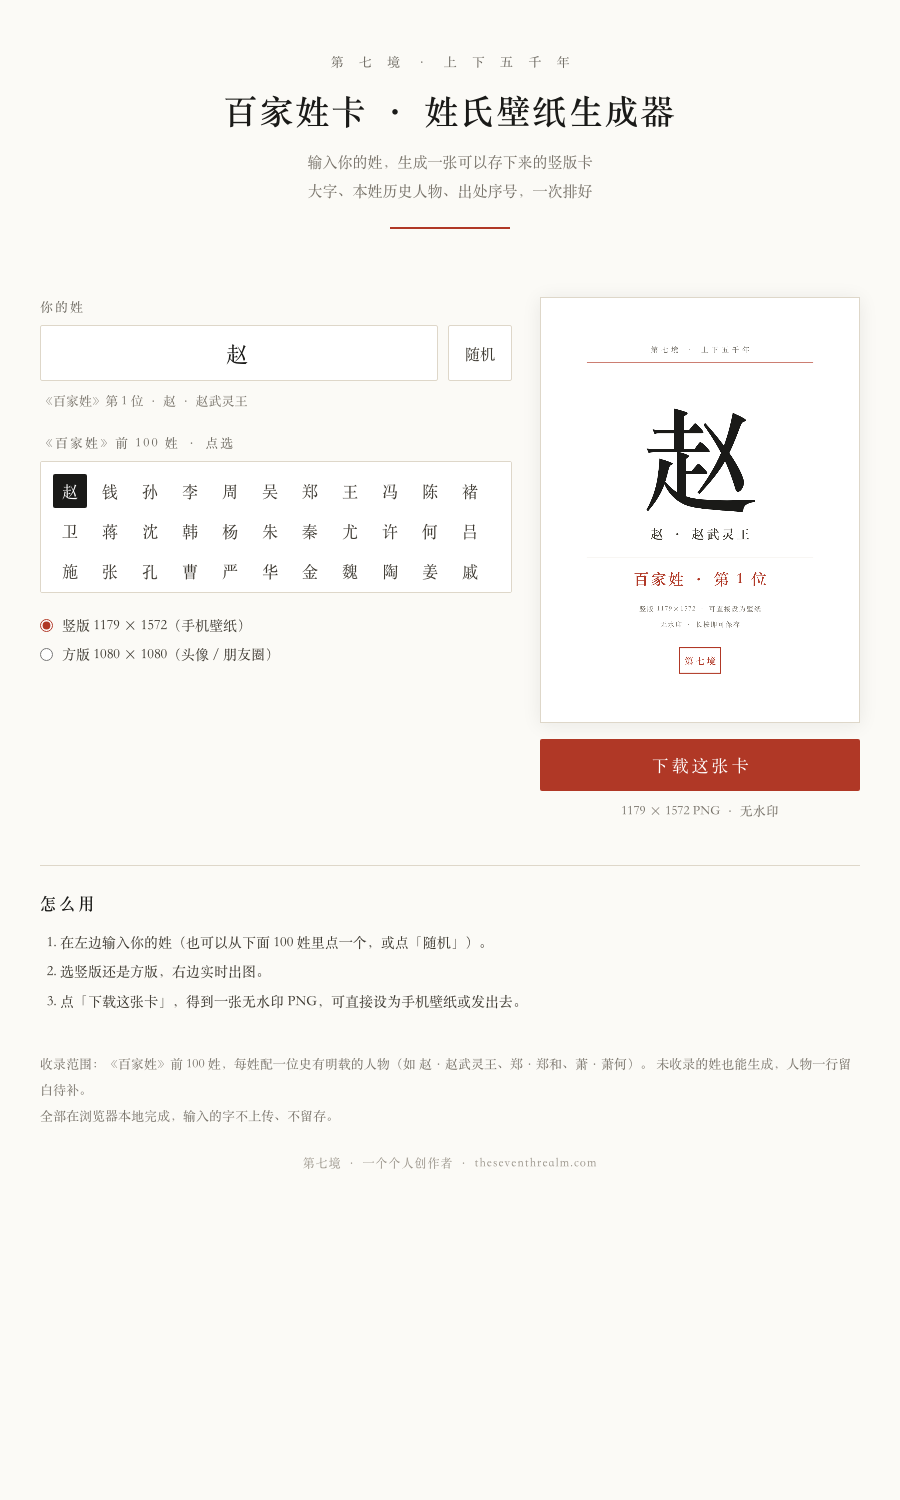
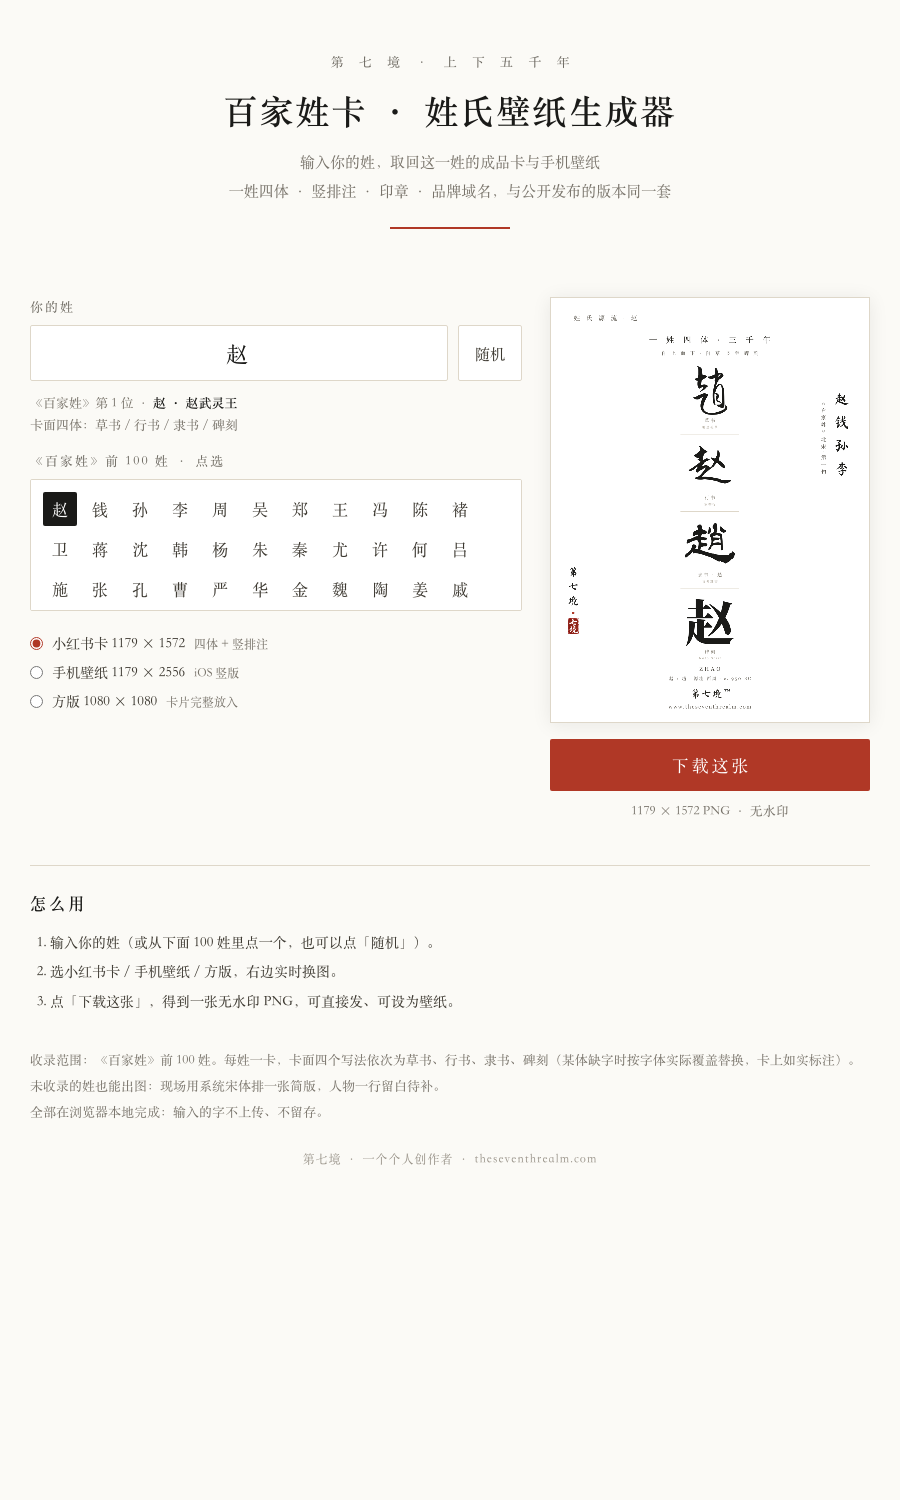
百家姓卡应用 v2：输出小红书发布版（四体卡+壁纸+方版）

diff --git a/02-商品/06-姓氏线/应用-百家姓卡/index.html b/02-商品/06-姓氏线/应用-百家姓卡/index.html
@@ -13,7 +13,7 @@
 *{margin:0;padding:0;box-sizing:border-box}
 body{background:var(--paper);color:var(--ink);font-family:var(--serif);
   -webkit-font-smoothing:antialiased;padding:0 0 56px}
-.wrap{max-width:860px;margin:0 auto;padding:0 20px}
+.wrap{max-width:880px;margin:0 auto;padding:0 20px}
 
 header{text-align:center;padding:52px 0 34px}
 header .kick{font-size:13px;letter-spacing:6px;text-indent:6px;color:var(--gray)}
@@ -22,7 +22,7 @@ header .sub{margin-top:14px;font-size:15px;color:var(--light);line-height:1.9}
 header .rule{width:120px;height:2px;background:var(--cinnabar);margin:22px auto 0}
 
 .cols{display:flex;gap:28px;align-items:flex-start;flex-wrap:wrap;margin-top:34px}
-.form{flex:1 1 320px;min-width:300px}
+.form{flex:1 1 330px;min-width:300px}
 .stage{flex:0 0 320px;margin:0 auto}
 
 label.t{display:block;font-size:13px;letter-spacing:2px;color:var(--gray);margin-bottom:10px}
@@ -35,12 +35,12 @@ button{font-family:var(--serif);cursor:pointer;border-radius:2px;transition:.15s
 .btn-ghost{flex:0 0 auto;padding:12px 16px;font-size:15px;background:#fff;
   border:1px solid var(--hair);color:var(--dark)}
 .btn-ghost:hover{border-color:var(--cinnabar);color:var(--cinnabar)}
-.tip{font-size:13px;color:var(--light);margin-top:10px;min-height:20px}
+.tip{font-size:13px;color:var(--light);margin-top:10px;min-height:44px;line-height:1.7}
+.tip b{color:var(--ink);font-weight:700}
 .tip.warn{color:var(--cinnabar)}
 
 .chips{margin-top:8px;border:1px solid var(--hair);background:#fff;border-radius:2px;
-  padding:12px;max-height:132px;overflow-y:auto;
-  display:flex;flex-wrap:wrap;gap:6px}
+  padding:12px;max-height:132px;overflow-y:auto;display:flex;flex-wrap:wrap;gap:6px}
 .chips button{border:none;background:transparent;font-size:16px;color:var(--dark);
   width:34px;height:34px;line-height:34px;text-align:center}
 .chips button:hover{background:#f2efe7;color:var(--cinnabar)}
@@ -49,6 +49,7 @@ button{font-family:var(--serif);cursor:pointer;border-radius:2px;transition:.15s
 .fmt{margin-top:22px;display:flex;flex-direction:column;gap:9px}
 .fmt label{font-size:14px;color:var(--dark);display:flex;align-items:center;gap:9px;cursor:pointer}
 .fmt input{accent-color:var(--cinnabar)}
+.fmt .sm{font-size:12px;color:var(--light)}
 
 canvas{width:100%;max-width:320px;display:block;margin:0 auto;
   border:1px solid var(--hair);box-shadow:0 2px 18px rgba(26,26,24,.08);background:#fff}
@@ -61,7 +62,7 @@ canvas{width:100%;max-width:320px;display:block;margin:0 auto;
 .how{margin-top:46px;border-top:1px solid var(--hair);padding-top:26px}
 .how h2{font-size:16px;letter-spacing:3px;margin-bottom:14px}
 .how ol{padding-left:20px;font-size:14px;color:var(--dark);line-height:2.1}
-.note{margin-top:34px;font-size:13px;color:var(--light);line-height:2}
+.note{margin-top:30px;font-size:13px;color:var(--light);line-height:2}
 footer{margin-top:26px;text-align:center;font-size:12px;color:#9a948a;letter-spacing:1px}
 @media(max-width:720px){.cols{flex-direction:column}.stage{order:-1}}
 </style>
@@ -72,7 +73,7 @@ footer{margin-top:26px;text-align:center;font-size:12px;color:#9a948a;letter-spa
 <header>
   <div class="kick">第 七 境 · 上 下 五 千 年</div>
   <h1>百家姓卡 · 姓氏壁纸生成器</h1>
-  <div class="sub">输入你的姓，生成一张可以存下来的竖版卡<br>大字、本姓历史人物、出处序号，一次排好</div>
+  <div class="sub">输入你的姓，取回这一姓的成品卡与手机壁纸<br>一姓四体 · 竖排注 · 印章 · 品牌域名，与公开发布的版本同一套</div>
   <div class="rule"></div>
 </header>
 
@@ -85,18 +86,19 @@ footer{margin-top:26px;text-align:center;font-size:12px;color:#9a948a;letter-spa
     </div>
     <div class="tip" id="tip"></div>
 
-    <label class="t" style="margin-top:22px">《百家姓》前 100 姓 · 点选</label>
+    <label class="t" style="margin-top:16px">《百家姓》前 100 姓 · 点选</label>
     <div class="chips" id="chips"></div>
 
     <div class="fmt">
-      <label><input type="radio" name="fmt" value="v" checked>竖版 1179 × 1572（手机壁纸）</label>
-      <label><input type="radio" name="fmt" value="s">方版 1080 × 1080（头像 / 朋友圈）</label>
+      <label><input type="radio" name="fmt" value="card" checked>小红书卡 1179 × 1572<span class="sm">四体 + 竖排注</span></label>
+      <label><input type="radio" name="fmt" value="wall">手机壁纸 1179 × 2556<span class="sm">iOS 竖版</span></label>
+      <label><input type="radio" name="fmt" value="sq">方版 1080 × 1080<span class="sm">卡片完整放入</span></label>
     </div>
   </div>
 
   <div class="stage">
     <canvas id="cv"></canvas>
-    <button class="btn-main" id="dl">下载这张卡</button>
+    <button class="btn-main" id="dl">下载这张</button>
     <div class="cap" id="cap"></div>
   </div>
 </div>
@@ -104,14 +106,14 @@ footer{margin-top:26px;text-align:center;font-size:12px;color:#9a948a;letter-spa
 <div class="how">
   <h2>怎么用</h2>
   <ol>
-    <li>在左边输入你的姓（也可以从下面 100 姓里点一个，或点「随机」）。</li>
-    <li>选竖版还是方版，右边实时出图。</li>
-    <li>点「下载这张卡」，得到一张无水印 PNG，可直接设为手机壁纸或发出去。</li>
+    <li>输入你的姓（或从下面 100 姓里点一个，也可以点「随机」）。</li>
+    <li>选小红书卡 / 手机壁纸 / 方版，右边实时换图。</li>
+    <li>点「下载这张」，得到一张无水印 PNG，可直接发、可设为壁纸。</li>
   </ol>
   <div class="note">
-    收录范围：《百家姓》前 100 姓，每姓配一位史有明载的人物（如 赵·赵武灵王、郑·郑和、萧·萧何）。
-    未收录的姓也能生成，人物一行留白待补。<br>
-    全部在浏览器本地完成，输入的字不上传、不留存。
+    收录范围：《百家姓》前 100 姓。每姓一卡，卡面四个写法依次为草书、行书、隶书、碑刻（某体缺字时按字体实际覆盖替换，卡上如实标注）。<br>
+    未收录的姓也能出图：现场用系统宋体排一张简版，人物一行留白待补。<br>
+    全部在浏览器本地完成：输入的字不上传、不留存。
   </div>
 </div>
 
@@ -525,13 +527,14 @@ const DATA = [
 const INK='#1a1a18', CIN='#b03826', GRAY='#6b675f', DARK='#3d3931', LIGHT='#78736a', HAIR='#ded7c9';
 const SERIF = "'Songti SC','STSong','Noto Serif CJK SC','Source Han Serif SC','SimSun',serif";
 const MAP = new Map(DATA.map((d,i)=>[d.s, {n:d.n, idx:i+1}]));
+const SIZE = {card:[1179,1572,'cards','-1179x1572.png'],
+              wall:[1179,2556,'wall','-1179x2556.png'],
+              sq:[1080,1080,'cards','-1179x1572.png']};
 
-const cv = document.getElementById('cv');
-const ctx = cv.getContext('2d');
-const elSn = document.getElementById('sn');
-const elTip = document.getElementById('tip');
-const elCap = document.getElementById('cap');
-const elChips = document.getElementById('chips');
+const cv=document.getElementById('cv'), ctx=cv.getContext('2d');
+const elSn=document.getElementById('sn'), elTip=document.getElementById('tip'), elCap=document.getElementById('cap');
+const elChips=document.getElementById('chips');
+const cache={}; let seq=0;
 
 DATA.forEach(d=>{
   const b=document.createElement('button'); b.textContent=d.s; b.title=d.s+' · '+d.n;
@@ -539,80 +542,104 @@ DATA.forEach(d=>{
   elChips.appendChild(b);
 });
 
-function drawSpaced(text, cx, y, sp){
-  const cs=[...text];
-  const ws=cs.map(c=>ctx.measureText(c).width);
-  let total=ws.reduce((a,b)=>a+b,0)+sp*(cs.length-1);
-  let x=cx-total/2;
+function spaced(text,cx,y,sp){
+  const cs=[...text], ws=cs.map(c=>ctx.measureText(c).width);
+  let x=cx-(ws.reduce((a,b)=>a+b,0)+sp*(cs.length-1))/2;
   const prev=ctx.textAlign; ctx.textAlign='left';
   cs.forEach((c,i)=>{ ctx.fillText(c,x,y); x+=ws[i]+sp; });
   ctx.textAlign=prev;
 }
 
-function render(){
-  const v = document.querySelector('input[name=fmt]:checked').value==='v';
-  const W = v?1179:1080, H = v?1572:1080;
-  cv.width=W; cv.height=H;
-  const sc = W/1179;
-  const CX = W/2;
-  const sRaw = (elSn.value||'').trim();
-  const s = sRaw || '赵';
-  const rec = MAP.get(s);
-  const F = (px,w)=>`${w} ${Math.round(px*sc)}px ${SERIF}`;
-
+/* 未收录的姓 / 图加载失败：现场排一张简版 */
+function drawFallback(s, W, H, sc){
+  const CX=W/2, F=(px,w)=>`${w} ${Math.round(px*sc)}px ${SERIF}`;
   ctx.fillStyle='#fff'; ctx.fillRect(0,0,W,H);
   ctx.textAlign='center'; ctx.textBaseline='alphabetic';
-
   ctx.font=F(27,400); ctx.fillStyle=GRAY;
-  drawSpaced('第七境 · 上下五千年', CX, H*0.127, 11*sc);
-
-  ctx.fillStyle=CIN; ctx.fillRect((W-0.712*W)/2, H*0.152, 0.712*W, Math.max(2,3*sc));
-
+  spaced('第七境 · 上下五千年',CX,H*0.127,11*sc);
+  ctx.fillStyle=CIN; ctx.fillRect((W-0.712*W)/2,H*0.152,0.712*W,Math.max(2,3*sc));
   ctx.font=F(420,700); ctx.fillStyle=INK; ctx.textBaseline='middle';
-  drawSpaced(s, CX, H*0.369, 0);
-  ctx.textBaseline='alphabetic';
-
+  spaced(s,CX,H*0.369,0); ctx.textBaseline='alphabetic';
   ctx.font=F(48,700); ctx.fillStyle=DARK;
-  drawSpaced(rec ? (s+' · '+rec.n) : (s+' · 本姓待补'), CX, H*0.566, 8*sc);
-
-  ctx.fillStyle=HAIR; ctx.fillRect((W-0.712*W)/2, H*0.611, 0.712*W, Math.max(1,Math.round(sc)));
-
+  spaced(s+' · 本姓待补',CX,H*0.566,8*sc);
+  ctx.fillStyle=HAIR; ctx.fillRect((W-0.712*W)/2,H*0.611,0.712*W,Math.max(1,Math.round(sc)));
   ctx.font=F(58,700); ctx.fillStyle=CIN;
-  drawSpaced(rec ? ('百家姓 · 第 '+rec.idx+' 位') : '百家姓 · 已收录前 100 姓', CX, H*0.674, 6*sc);
-
+  spaced('百家姓 · 已收录前 100 姓',CX,H*0.674,6*sc);
   ctx.font=F(25,400); ctx.fillStyle=LIGHT;
-  drawSpaced(v?'竖版 1179×1572 · 可直接设为壁纸':'方版 1080×1080 · 适合头像与朋友圈', CX, H*0.738, 3*sc);
-  drawSpaced('无水印 · 长按即可保存', CX, H*0.775, 3*sc);
-
+  spaced('竖版 '+W+'×'+H+' · 可直接设为壁纸',CX,H*0.738,3*sc);
+  spaced('无水印 · 长按即可保存',CX,H*0.775,3*sc);
   const sw=0.129*W, sh=sw*0.618, sx=(W-sw)/2, sy=H*0.825;
   ctx.strokeStyle=CIN; ctx.lineWidth=Math.max(3,4*sc); ctx.strokeRect(sx,sy,sw,sh);
   ctx.font=F(34,700); ctx.fillStyle=CIN; ctx.textBaseline='middle';
-  drawSpaced('第七境', CX, sy+sh/2, 7*sc);
-  ctx.textBaseline='alphabetic';
+  spaced('第七境',CX,sy+sh/2,7*sc); ctx.textBaseline='alphabetic';
+}
 
-  // UI 文案
-  if(!sRaw){ elTip.className='tip'; elTip.textContent=''; }
-  else if(rec){ elTip.className='tip'; elTip.textContent='《百家姓》第 '+rec.idx+' 位 · '+s+' · '+rec.n; }
-  else { elTip.className='tip warn'; elTip.textContent='「'+s+'」不在已收录的 100 姓内，人物留白待补，卡片照常生成。'; }
-  elCap.textContent = (v?'1179 × 1572':'1080 × 1080') + ' PNG · 无水印';
+function load(src){
+  if(cache[src]) return Promise.resolve(cache[src]);
+  return new Promise((res,rej)=>{
+    const im=new Image();
+    im.onload=()=>{cache[src]=im; res(im);};
+    im.onerror=()=>rej(new Error(src));
+    im.src=src;
+  });
+}
+
+async function sync(){
+  const raw=(elSn.value||'').trim();
+  const s=raw||'赵';
+  const fmt=document.querySelector('input[name=fmt]:checked').value;
+  const [W,H,dir,suf]=SIZE[fmt];
+  const sc=W/1179;
+  const my=++seq;
+
+  cv.width=W; cv.height=H;
+  ctx.fillStyle='#fff'; ctx.fillRect(0,0,W,H);
+  const rec=MAP.get(s);
+
+  let ok=false, dim='-';
+  if(rec){
+    try{
+      const im=await load(dir+'/'+encodeURIComponent(s)+suf);
+      if(my!==seq) return;
+      dim=im.naturalWidth+'x'+im.naturalHeight;
+      if(fmt==='sq'){
+        const pad=60, k=Math.min((W-pad*2)/im.width,(H-pad*2)/im.height);
+        const dw=im.width*k, dh=im.height*k;
+        ctx.drawImage(im,(W-dw)/2,(H-dh)/2,dw,dh);
+      }else{
+        ctx.drawImage(im,0,0,W,H);
+      }
+      ok=true;
+    }catch(e){ ok=false; }
+  }
+  if(my!==seq) return;
+  if(!ok) drawFallback(s,W,H,sc);
+
+  if(!raw){ elTip.className='tip'; elTip.textContent=''; }
+  else if(rec && ok){ elTip.className='tip'; elTip.innerHTML='《百家姓》第 '+rec.idx+' 位 · <b>'+s+' · '+rec.n+'</b><br>卡面四体：草书 / 行书 / 隶书 / 碑刻'; }
+  else if(rec){ elTip.className='tip warn'; elTip.textContent='图没加载出来，已退回简版（刷新页面可重试）。'; }
+  else { elTip.className='tip warn'; elTip.textContent='「'+s+'」不在已收录的 100 姓内，现场排了简版，人物留白待补。'; }
+
+  elCap.textContent = W+' × '+H+' PNG · 无水印';
+  document.documentElement.dataset.st=(ok?'IMG':'FALLBACK')+'|'+W+'x'+H+'|'+dim;
   [...elChips.children].forEach(b=>b.classList.toggle('on', b.textContent===s));
 }
 
-function sync(){ render(); }
 elSn.addEventListener('input', sync);
 document.querySelectorAll('input[name=fmt]').forEach(r=>r.addEventListener('change', sync));
-document.getElementById('rand').onclick=()=>{
-  elSn.value = DATA[Math.floor(Math.random()*DATA.length)].s; sync();
-};
+document.getElementById('rand').onclick=()=>{ elSn.value=DATA[Math.floor(Math.random()*DATA.length)].s; sync(); };
 document.getElementById('dl').onclick=()=>{
   cv.toBlob(b=>{
     const a=document.createElement('a');
     a.href=URL.createObjectURL(b);
     a.download='百家姓卡-'+(elSn.value||'赵')+'-'+cv.width+'x'+cv.height+'.png';
-    a.click(); setTimeout(()=>URL.revokeObjectURL(a.href), 2000);
+    a.click(); setTimeout(()=>URL.revokeObjectURL(a.href),2000);
   },'image/png');
 };
-render();
+const Q=new URLSearchParams(location.search);
+if(Q.get('s')) elSn.value=Q.get('s');
+if(Q.get('fmt')&&SIZE[Q.get('fmt')]) document.querySelector('input[name=fmt][value='+Q.get('fmt')+']').checked=true;
+sync();
 </script>
 </body>
 </html>

diff --git a/02-商品/06-姓氏线/应用-百家姓卡/投稿材料-1024造物挑战.md b/02-商品/06-姓氏线/应用-百家姓卡/投稿材料-1024造物挑战.md
@@ -9,14 +9,14 @@
 - **作品名**：百家姓卡 · 姓氏壁纸生成器
 - **分类**：内容创作
 - **一句话简介**：
-  输入你的姓，当场生成一张可下载的竖版「百家姓卡」——大字、本姓历史人物、出处序号一次排好，可设手机壁纸，全程本地完成、数据不上传。
+  输入你的姓，取回这一姓的成品卡与手机壁纸——一姓四体（草书／行书／隶书／碑刻）、竖排注、印章与品牌域名，三种尺寸一键下载，全程本地完成、数据不上传。
 
 ## 长简介（投稿备注 / 社媒文案通用）
 
-《百家姓》前 100 姓，每姓配一位史有明载的人物：赵·赵武灵王、郑·郑和、萧·萧何……
-输入你的姓，右边实时出一张 1179×1572 的竖版卡（也可切 1080×1080 方版），点一下就能下载无水印 PNG。
-不是模板套图——版式、字号、留白都是按出版级排的，生成的每张卡都能直接用。
-没收录的姓也照常能生成，人物一行留白待补，不瞎编。
+《百家姓》前 100 姓，一姓一卡：卡面四个写法依次是草书、行书、隶书、碑刻，配竖排注、印章与出处，就是公开发布的那一版。
+输入你的姓，实时给出三种尺寸——小红书卡 1179×1572、手机壁纸 1179×2556、方版 1080×1080，点一下下载无水印 PNG，可直接发、可直接设为壁纸。
+每姓还给出一位史有明载的人物（赵·赵武灵王、郑·郑和、萧·萧何……）和它在《百家姓》里的位次。
+不在 100 姓里的字（比如刘、徐）也能出图：现场排一张简版，人物一行留白待补——不瞎编。
 全部在浏览器本地完成：你输入的字不上传、不留存。
 
 ## 投稿材料清单
@@ -24,8 +24,10 @@
 | 材料 | 状态 | 位置 |
 |---|---|---|
 | 体验链接 | ⬜ 待发布后填 | 发布为应用后获得（`*.app.workbuddy.host`） |
-| 截图 1（应用全景） | ✅ 已有 | 本目录 `截图-应用全景.png` |
-| 截图 2/3 | ⬜ 建议发布后补：一张竖版卡成品、一张方版成品 | 线上页面直接截 |
+| 截图 1（卡片版界面） | ✅ 已有 | 本目录 `截图-应用全景.png` |
+| 截图 2（壁纸版界面） | ✅ 已有 | 本目录 `截图-壁纸版.png` |
+
+> 发布后建议再从线上页面各截一次（保证与体验链接一致）。
 
 ## 提交前检查
 

diff --git a/11-运营/积分账本与产能测算.md b/11-运营/积分账本与产能测算.md
@@ -123,4 +123,4 @@
 | 2026-10-20 | **408.06** | 51.89 | ✅ 自动取数（刷新服务 23:54）；周期总额 4695 |
 | 2026-10-21 | **203.17** | 304.89 | ✅ 自动取数（刷新服务 23:40）；周期总额 4695 |
 | 2026-10-22 | **240.36** | 62.81 | ✅ 自动取数（刷新服务 23:41）；周期总额 4695 |
-| 2026-10-23 | **307.51** | 39.28 | ✅ 自动取数（刷新服务 21:02）；周期总额 4703 |
+| 2026-10-23 | **255.16** | 93.2 | ✅ 自动取数（刷新服务 21:33）；周期总额 4703 |

diff --git a/11-运营/reports/MEMORY快照-202610.md b/11-运营/reports/MEMORY快照-202610.md
@@ -1,6 +1,6 @@
 # 第七境 · MEMORY 快照（2026-10）
 > 本文件由 `11-运营/scripts/export-memory-snapshot.py` **自动生成**，请勿手改（下轮会覆盖）。
-> 生成时间：2026-10-23 21:25　|　源：`.workbuddy/memory/MEMORY.md`　|　不含日志（--full 可加）
+> 生成时间：2026-10-23 21:42　|　源：`.workbuddy/memory/MEMORY.md`　|　不含日志（--full 可加）
 
 ---
 
